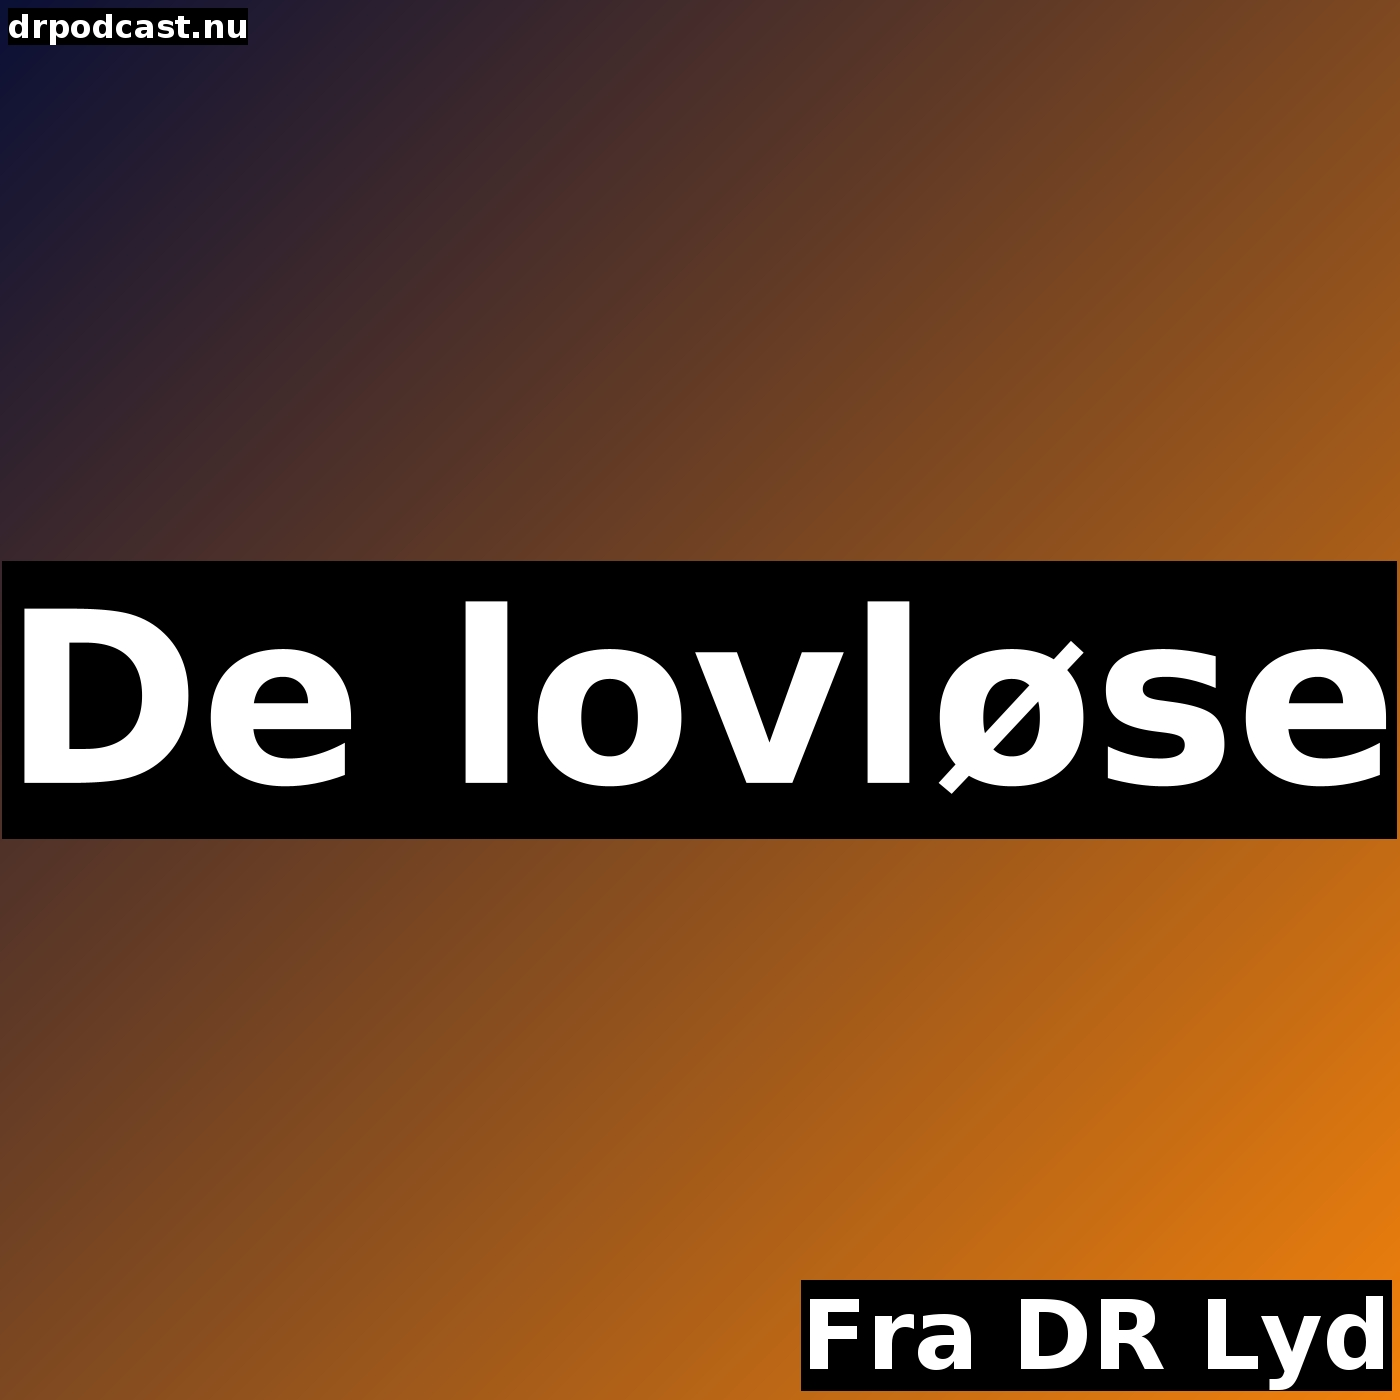
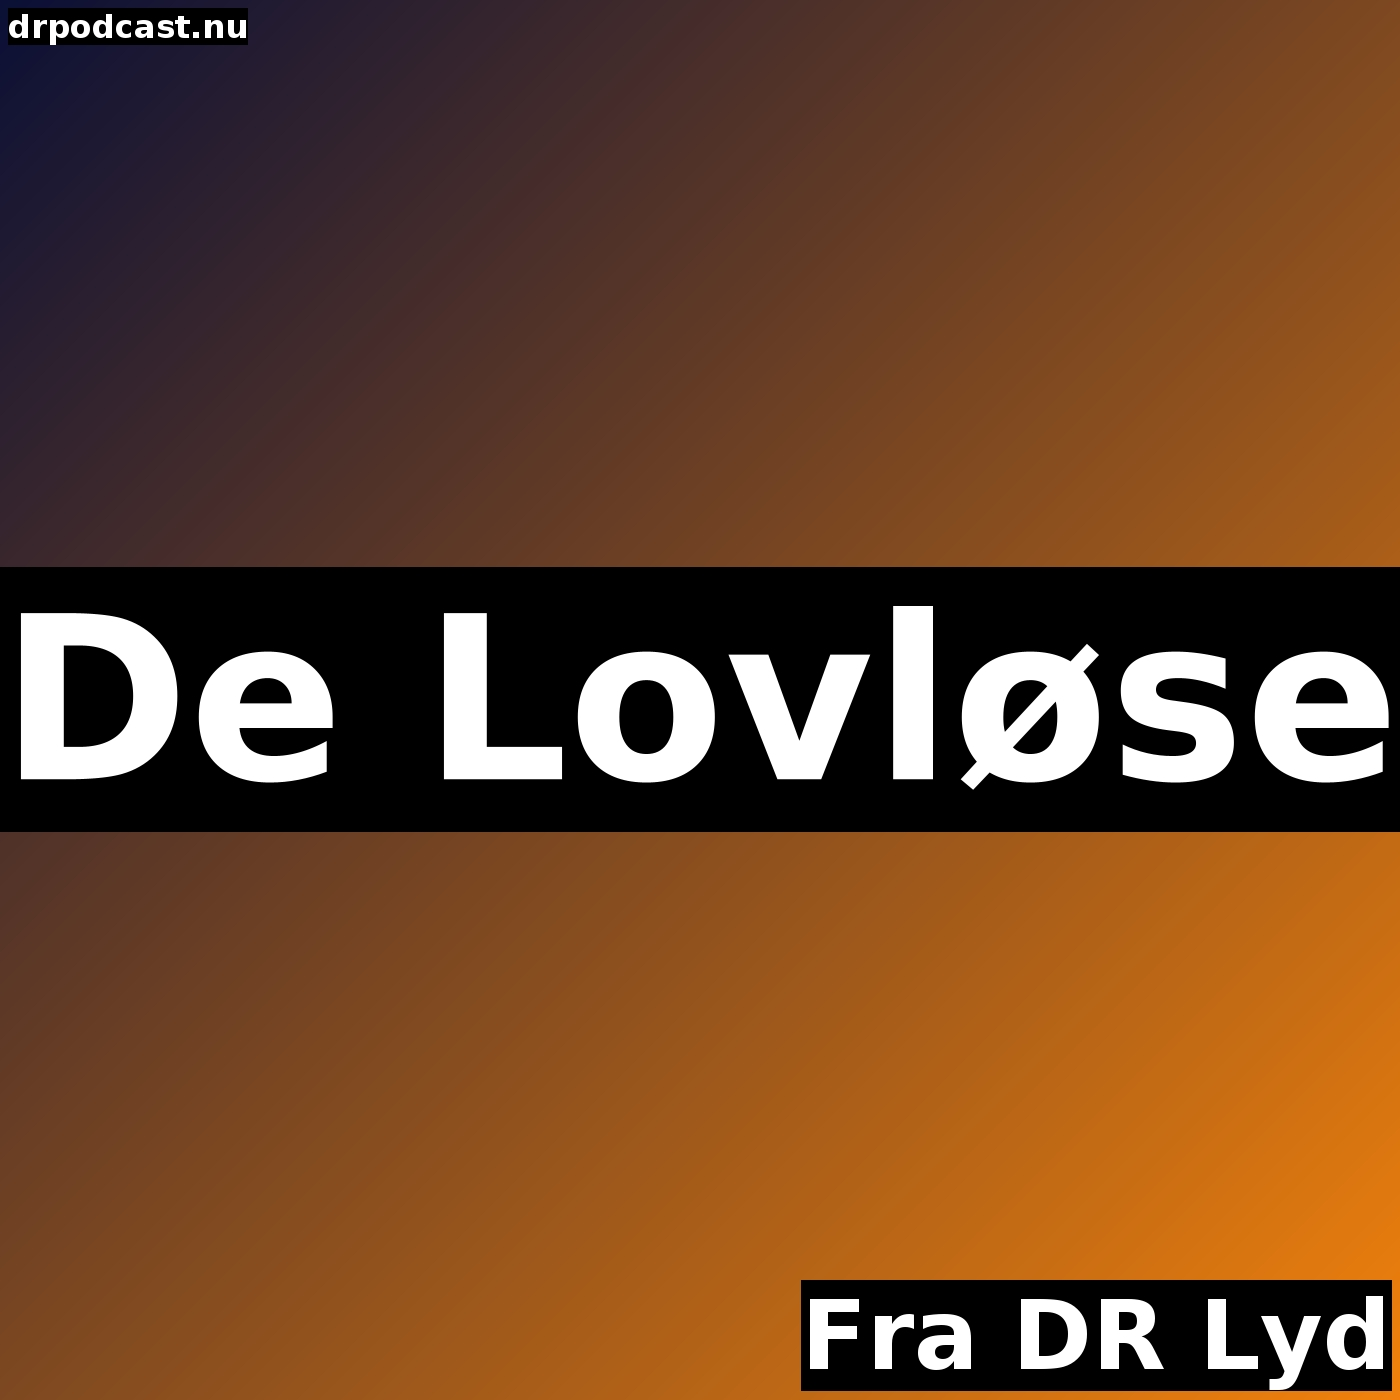
update

Changed region(s): [[0.0, 0.3993, 1.0, 0.6143]]

diff --git a/index.html b/index.html
@@ -497,9 +497,9 @@
             </a>
             <a href="de-lovloese/feed.xml">
                 <div>
-                    <img class="tile" src="de-lovloese/image.jpg" alt="De lovløse" />
+                    <img class="tile" src="de-lovloese/image.jpg" alt="De Lovløse" />
                     <br>
-                    <strong>De lovløse</strong>
+                    <strong>De Lovløse</strong>
                 </div>
             </a>
             <a href="de-nye-sangskrivere/feed.xml">
